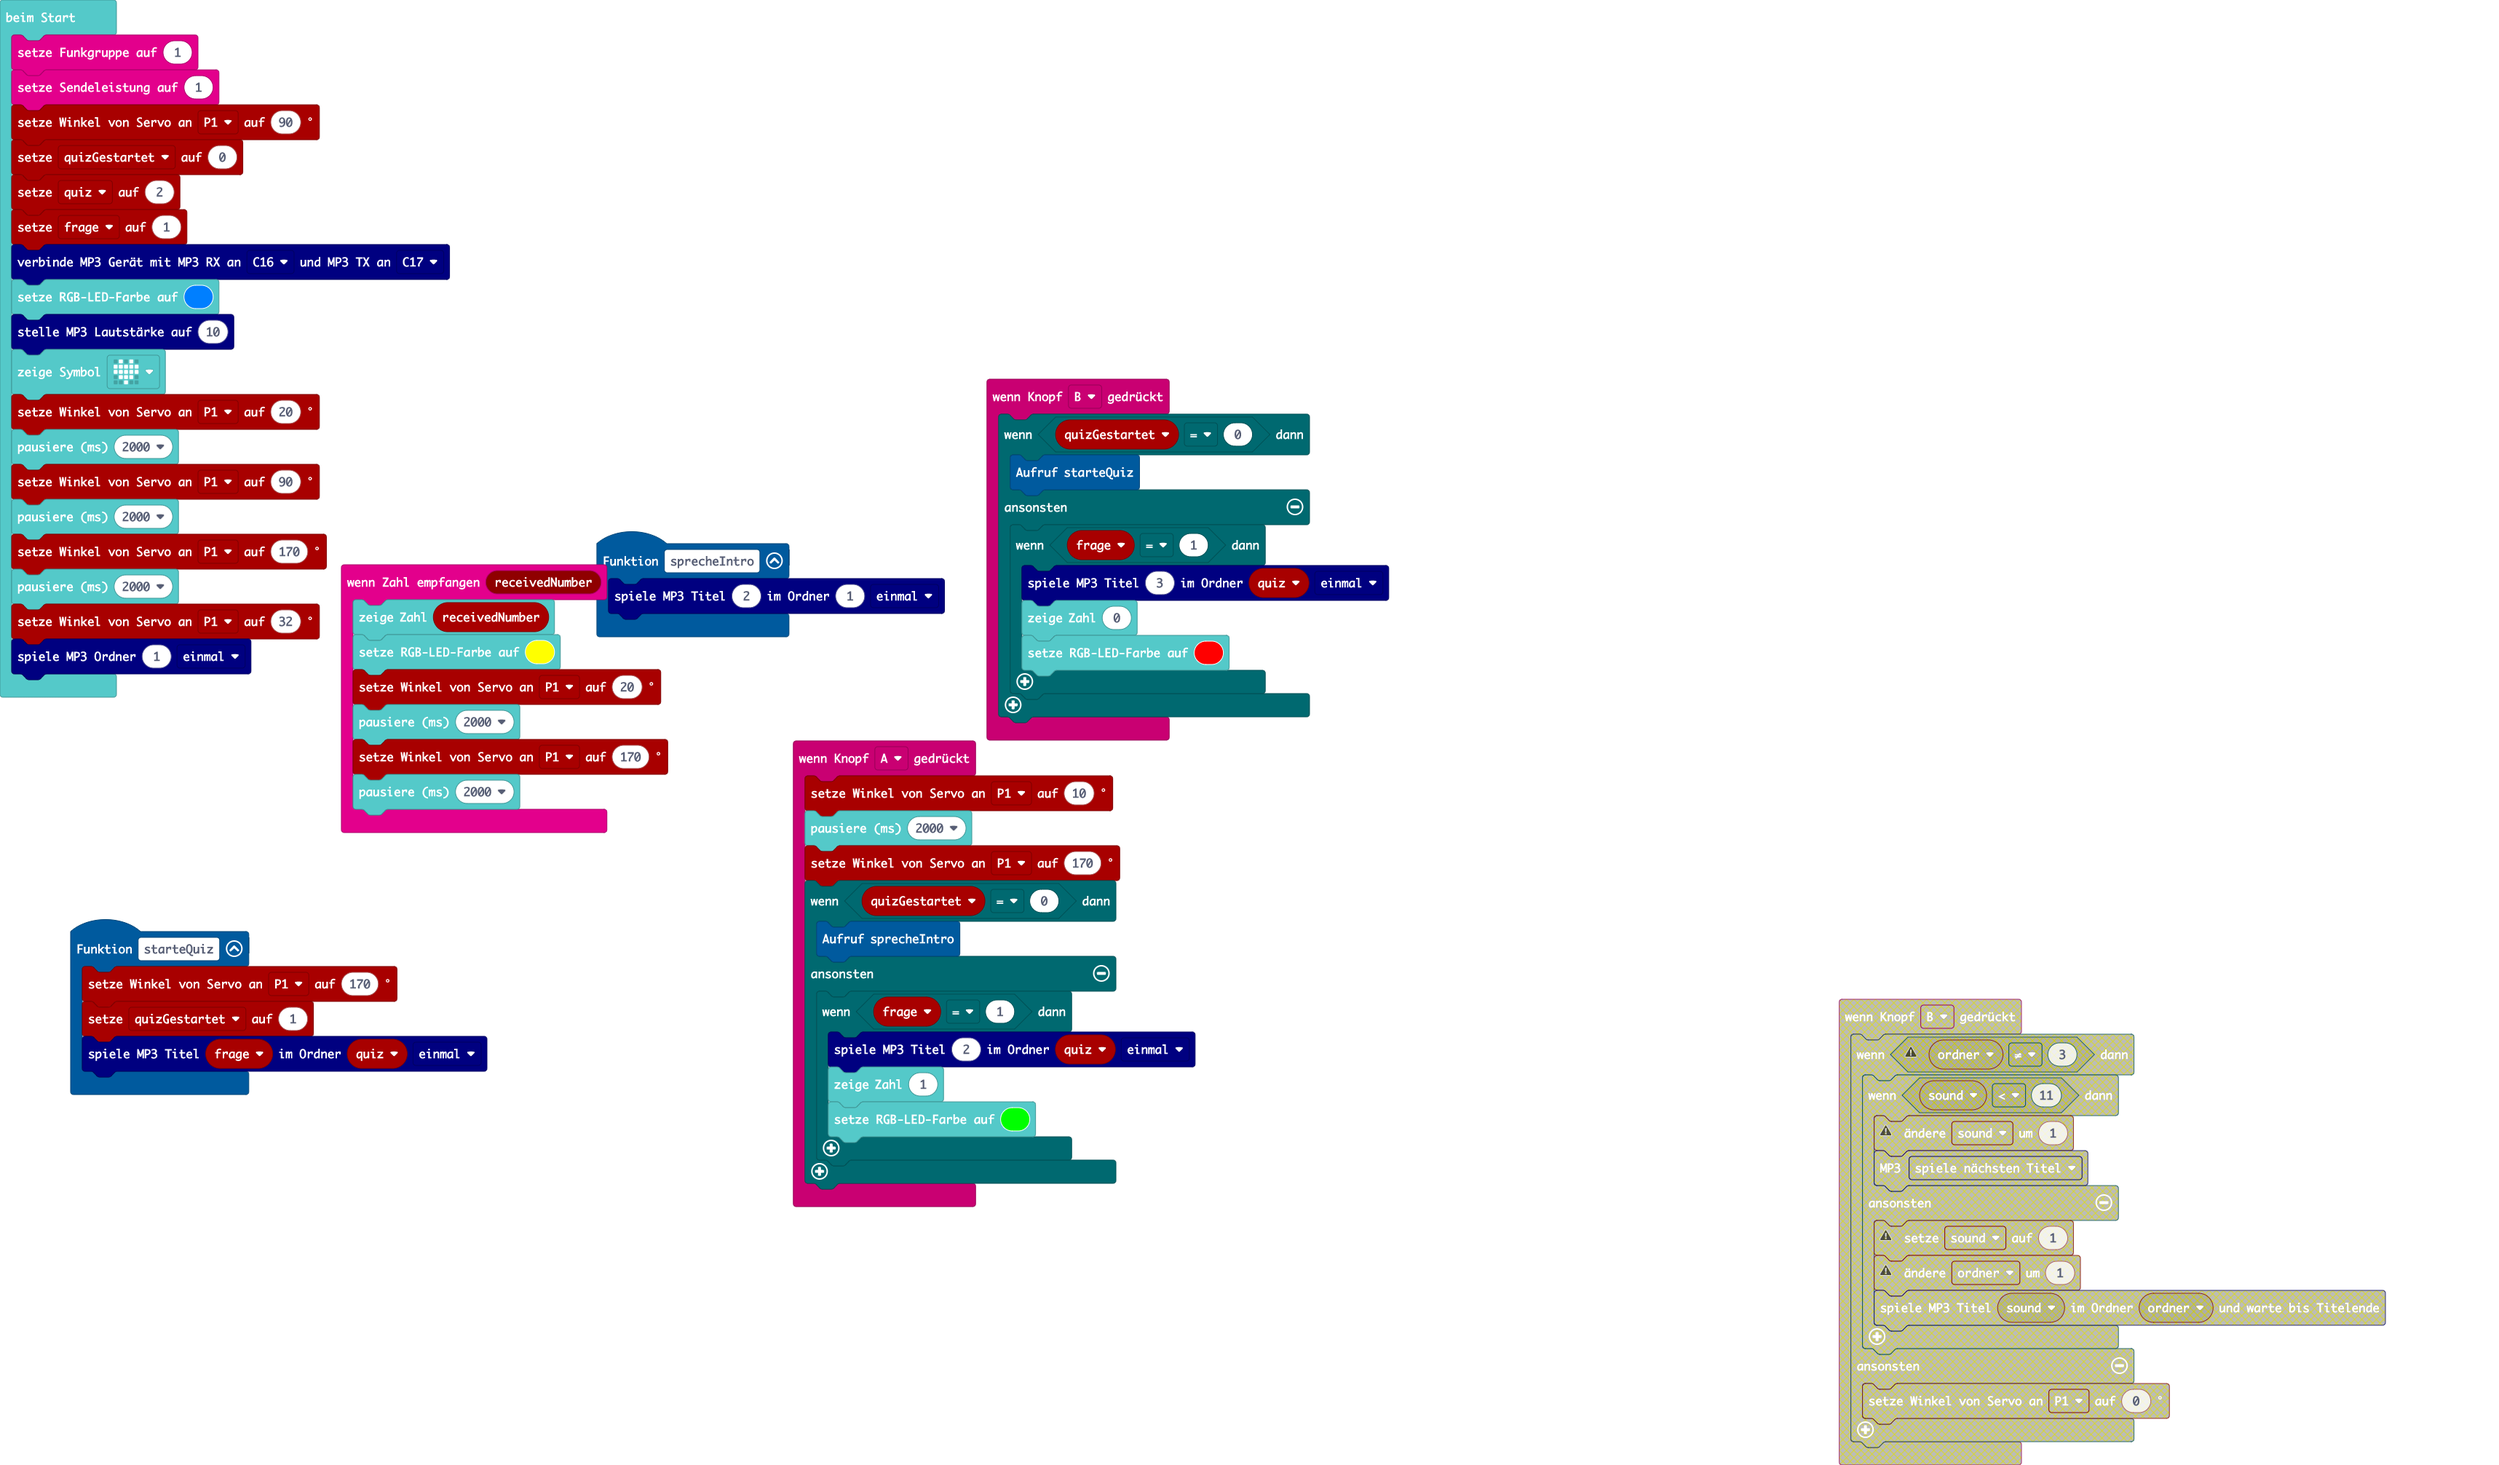
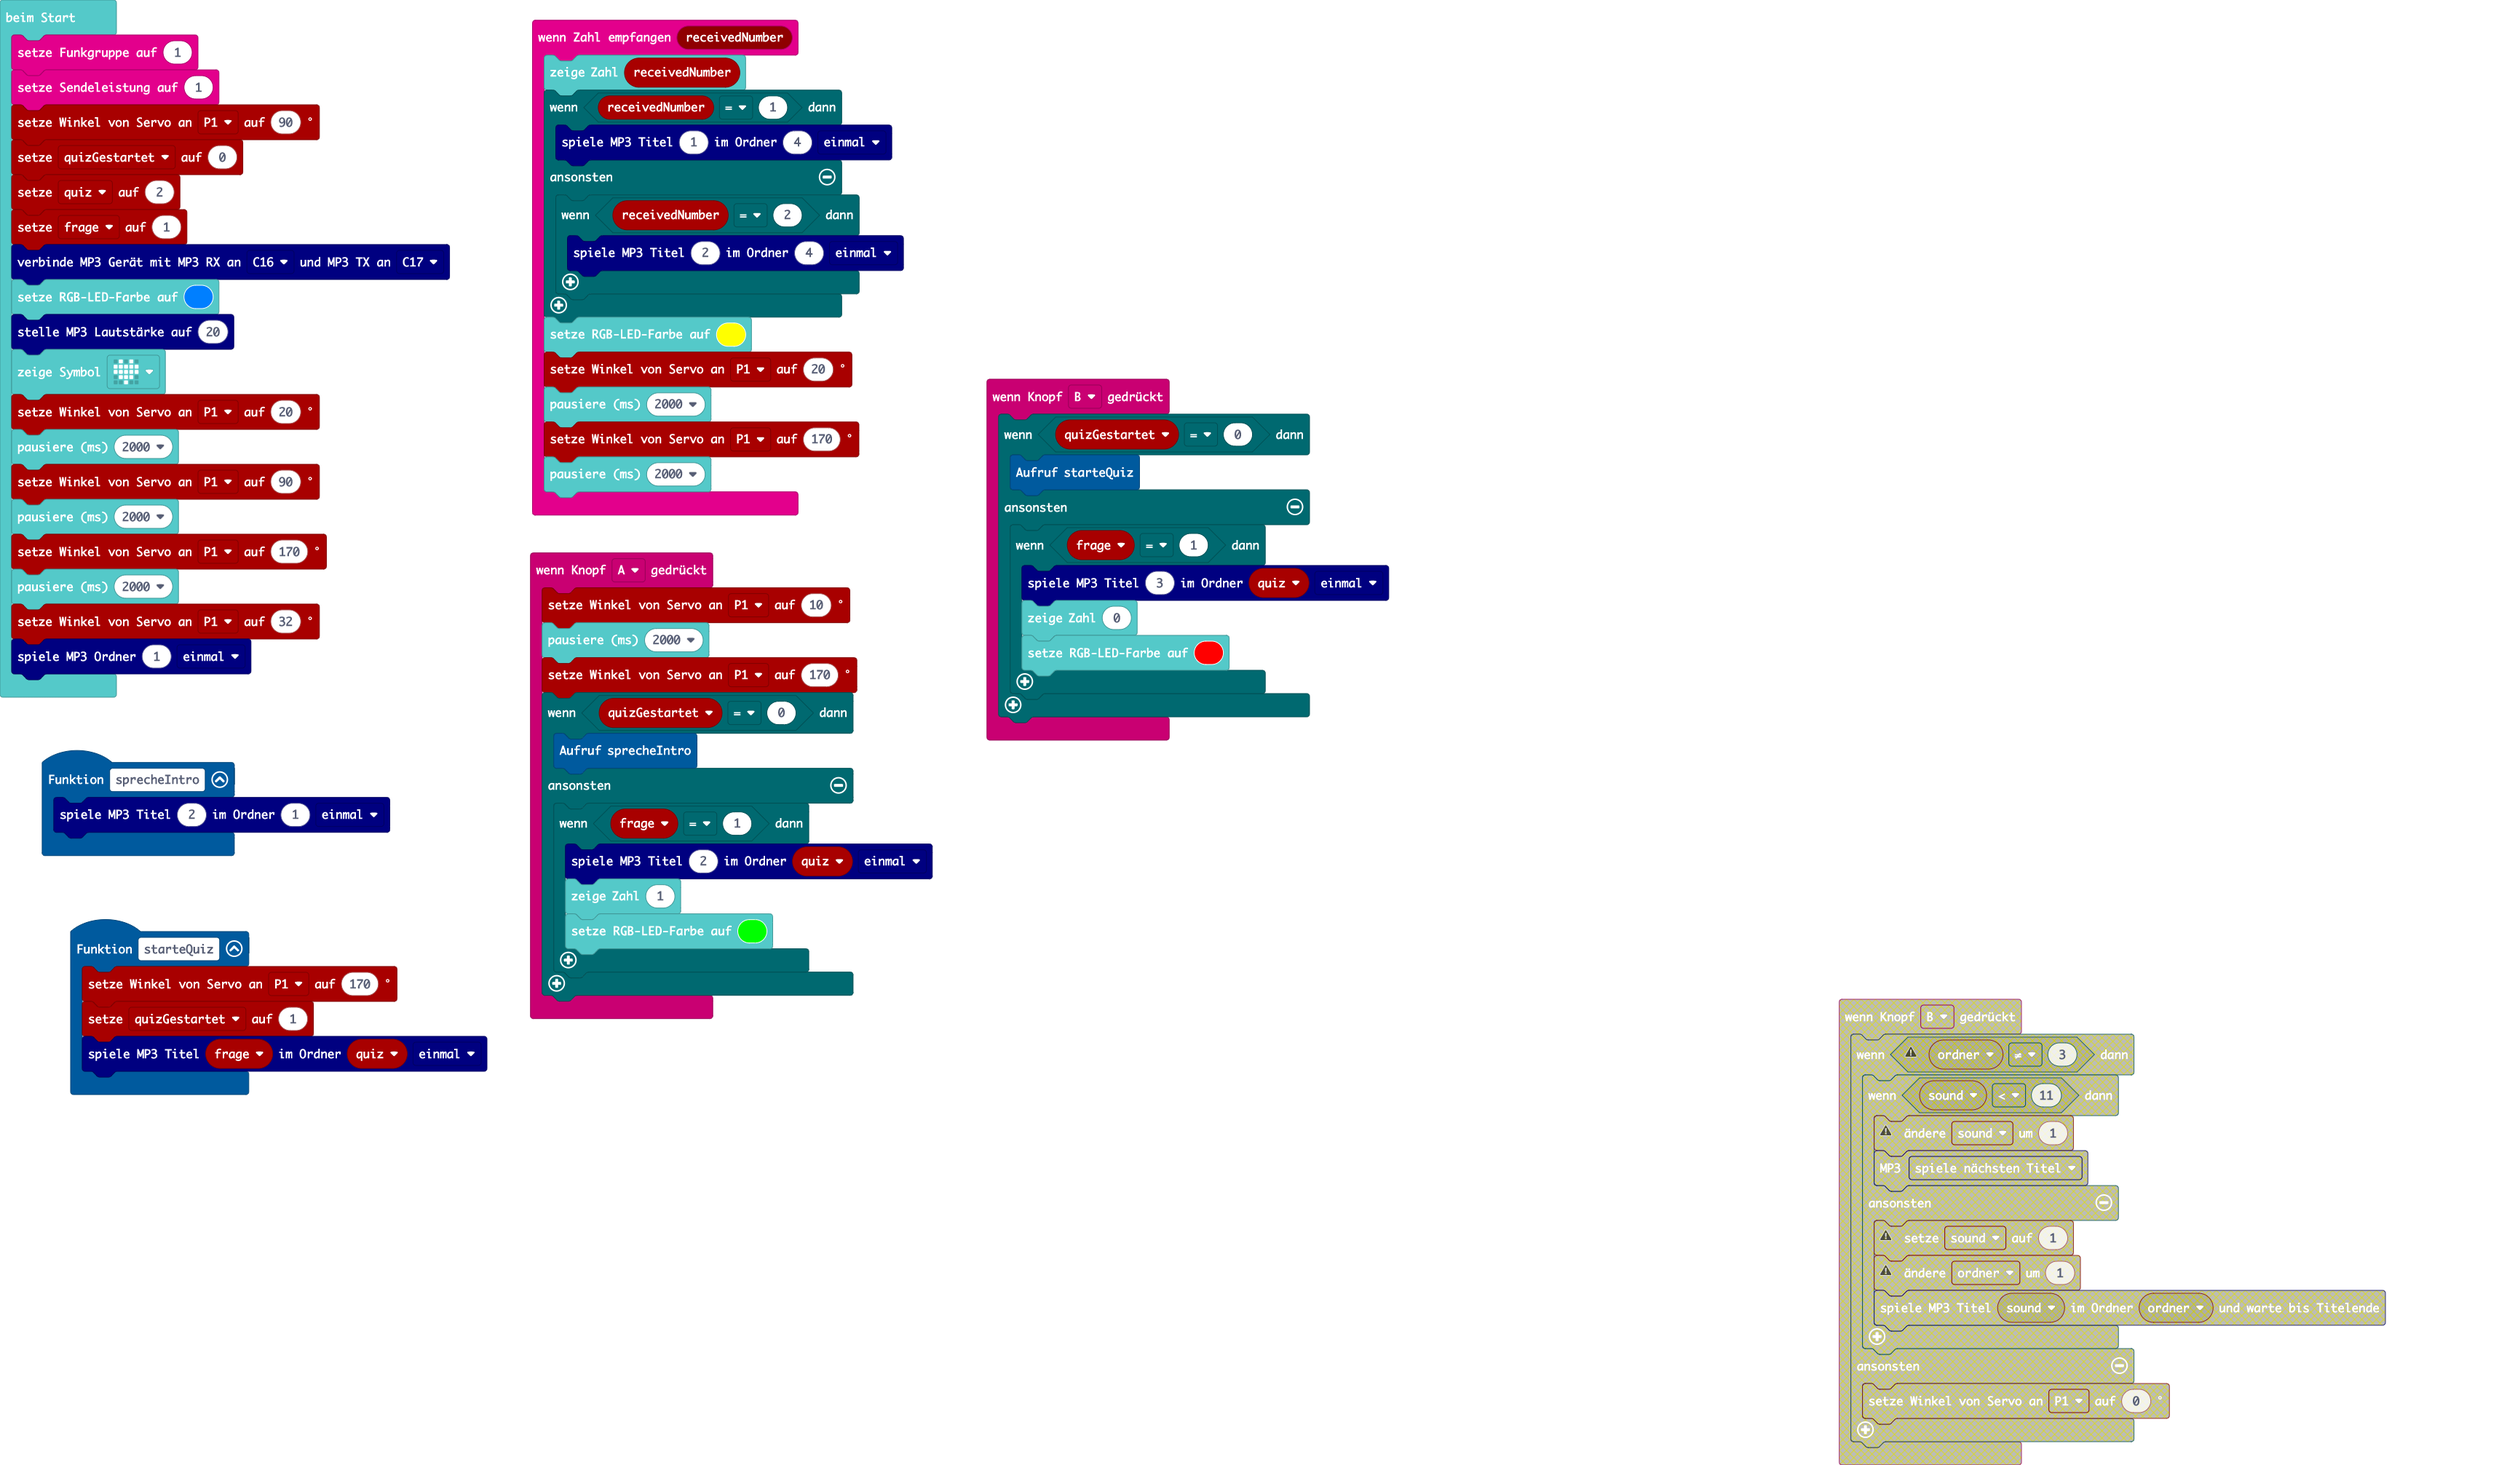
Aktualisiere main.blocks, main.ts

Changed region(s): [[0.0, 0.0, 0.4987, 0.8316]]

diff --git a/main.ts b/main.ts
@@ -5,6 +5,13 @@ function starteQuiz () {
 }
 radio.onReceivedNumber(function (receivedNumber) {
     basic.showNumber(receivedNumber)
+    if (receivedNumber == 1) {
+        serialmp3.playMp3TrackFromFolder(1, 4, Mp3Repeat.No)
+    } else {
+        if (receivedNumber == 2) {
+            serialmp3.playMp3TrackFromFolder(2, 4, Mp3Repeat.No)
+        }
+    }
     basic.setLedColor(0xffff00)
     pins.servoWritePin(AnalogPin.P1, 20)
     basic.pause(2000)
@@ -50,7 +57,7 @@ quiz = 2
 frage = 1
 serialmp3.connectSerialMp3(DigitalPin.C16, DigitalPin.C17)
 basic.setLedColor(0x007fff)
-serialmp3.setMp3Volume(10)
+serialmp3.setMp3Volume(20)
 basic.showIcon(IconNames.Heart)
 pins.servoWritePin(AnalogPin.P1, 20)
 basic.pause(2000)
